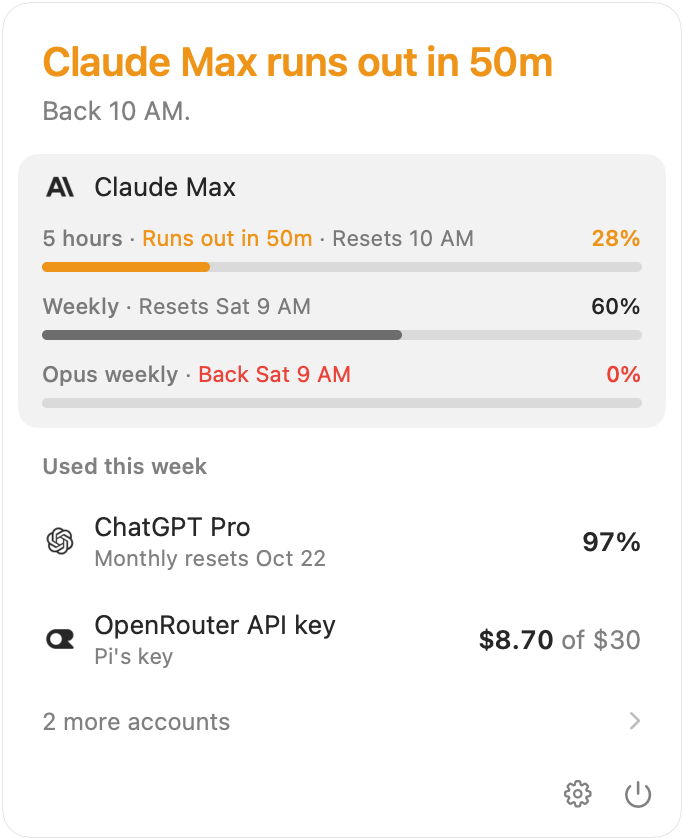
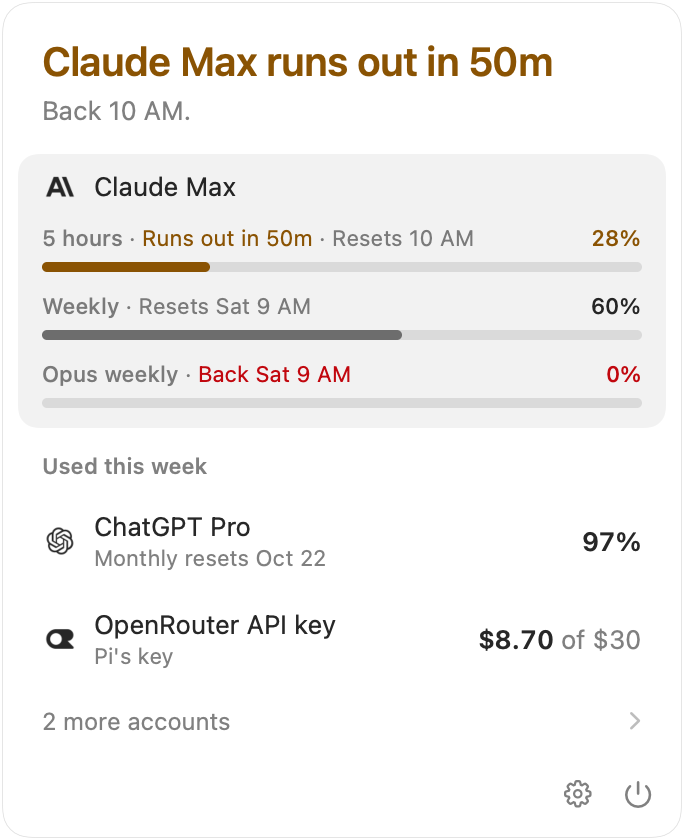
Raise color contrast, follow Reduce Motion, and keep dates Gregorian (#19)
Amber and red were one sRGB color each, for light and dark alike. In
light mode, amber text was 2.4:1 on white and about 1.7:1 on an open row
on the panel's glass, and red 3.9:1 and 2.9:1. Red was 2.9:1 on a dark
open row too. That text is as small as 11 points: a row's line, a
limit's times, the menu bar's figure. Standing.color is now Urgency, a
ShapeStyle that SwiftUI resolves from the color scheme and contrast. Each
color keeps its hue, with a variant for each appearance that reaches
4.5:1 on an open row on the glass (about #DDDDDD light, #3B3B3B dark),
and 7:1 with Increase Contrast on an opaque open row (#F2F2F2 and
NSColor wouldn't do: SwiftUI asks it only for light or dark, never for
more contrast.

Nothing read Reduce Motion. With it on, pages now fade instead of
sliding, a limit's bar is drawn at its level instead of springing to it,
and the footer's spinner holds still.

The menu bar's VoiceOver sentence was built in MenuBarItem, untested,
and left out of the key that decides when to redraw. A change only
VoiceOver would read, such as an API key's cost becoming partly
unpriced, waited until the figures changed too. It's now
Words.spokenItem, with a test, and part of that key.

Words formatted dates in the Mac's calendar, so a Mac on the Hebrew
calendar showed "Heshvan 7" for Oct 18. Dates are now formatted on the
Gregorian calendar in the Mac's time zone, and the Mac's calendar is kept
for day math.

The README's panel screenshots are redrawn.

diff --git a/macos/Turnscope/Style.swift b/macos/Turnscope/Style.swift
@@ -62,24 +62,65 @@ extension Font {
 extension Color {
     /// The color of something at work right now, such as an active session.
     /// It's the only color in a calm panel, since it needs nothing from you.
-    /// It's as bright as the amber beside it, and as muted.
+    /// It's as bright as the dark appearance's amber, and as muted.
     static let active = Color(red: 0.27, green: 0.72, blue: 0.43)
+
+    /// The color `0xRRGGBB`, in sRGB.
+    fileprivate init(hex: Int) {
+        self.init(red: Double(hex >> 16 & 0xFF) / 255, green: Double(hex >> 8 & 0xFF) / 255,
+                  blue: Double(hex & 0xFF) / 255)
+    }
 }
 
 extension Standing {
-    /// The color for something with this standing.
-    var color: Color {
-        switch self {
-        case .lasts: .primary
-        case .runningOut: Color(red: 0.93, green: 0.58, blue: 0.10)
-        case .usedUp: Color(red: 0.92, green: 0.26, blue: 0.22)
-        }
-    }
+    /// The color for something with this standing, in the appearance it's
+    /// drawn in.
+    var color: Urgency { Urgency(standing: self) }
 
     /// The color for text about something with this standing: amber or red
     /// when it needs attention, otherwise the gray `lasting`.
-    func ink(lasting: Color) -> Color {
-        self == .lasts ? lasting : color
+    func ink(lasting: Color) -> AnyShapeStyle {
+        self == .lasts ? AnyShapeStyle(lasting) : AnyShapeStyle(color)
+    }
+}
+
+/// A standing's color: the text's own color while it lasts, amber while it's
+/// running out, red once it's used up.
+///
+/// Amber and red are text as small as 11 points, so each reaches 4.5:1
+/// against the darkest background it's on: an open row on the panel's
+/// glass, about #DDDDDD in light mode and #3B3B3B in dark. With Increase
+/// Contrast, which also makes the glass opaque, each reaches 7:1 against an
+/// open row on the window's background, #F2F2F2 and #292929 as `--snapshot`
+/// draws them. Each keeps its hue, and as much of its chroma as sRGB holds.
+/// One amber and one red for every appearance were 1.7:1 and 2.9:1 on a
+/// light open row on the glass, and the red 2.9:1 on a dark one (October
+/// 2026).
+///
+/// | | Light | Dark | Light, Increase Contrast | Dark, Increase Contrast |
+/// |---|---|---|---|---|
+/// | Amber | #8A5303, 4.7:1 | #ED941A, 4.7:1 | #754501, 7.2:1 | #FCA231, 7.2:1 |
+/// | Red | #C1070E, 4.7:1 | #FE8375, 4.7:1 | #A5040A, 7.2:1 | #FF9C8F, 7.2:1 |
+///
+/// SwiftUI resolves it from the environment. A dynamic `NSColor` would never
+/// see Increase Contrast: SwiftUI asks it only for light or dark.
+struct Urgency: ShapeStyle {
+    var standing: Standing
+
+    func resolve(in environment: EnvironmentValues) -> Color {
+        let dark = environment.colorScheme == .dark
+        let more = environment.colorSchemeContrast == .increased
+        return switch (standing, dark, more) {
+        case (.lasts, _, _): .primary
+        case (.runningOut, false, false): Color(hex: 0x8A5303)
+        case (.runningOut, true, false): Color(hex: 0xED941A)
+        case (.runningOut, false, true): Color(hex: 0x754501)
+        case (.runningOut, true, true): Color(hex: 0xFCA231)
+        case (.usedUp, false, false): Color(hex: 0xC1070E)
+        case (.usedUp, true, false): Color(hex: 0xFE8375)
+        case (.usedUp, false, true): Color(hex: 0xA5040A)
+        case (.usedUp, true, true): Color(hex: 0xFF9C8F)
+        }
     }
 }
 

diff --git a/macos/Turnscope/Panel/AccountRow.swift b/macos/Turnscope/Panel/AccountRow.swift
@@ -44,7 +44,7 @@ struct AccountRow: View {
                     if !lines {
                         Text(words.status(account))
                             .font(.small)
-                            .foregroundStyle(deciding?.standing.ink(lasting: .secondary) ?? .secondary)
+                            .foregroundStyle((deciding?.standing ?? .lasts).ink(lasting: .secondary))
                             .lineLimit(1)
                             .transition(appears)
                     }
@@ -60,7 +60,7 @@ struct AccountRow: View {
                     // The text after the figure says what it is, so they
                     // read as one: "$10 of $30", "$84 this month".
                     let said = words.rowFigure(account)
-                    let left = Text(said.figure).foregroundStyle(deciding?.standing.ink(lasting: .primary) ?? .primary)
+                    let left = Text(said.figure).foregroundStyle((deciding?.standing ?? .lasts).ink(lasting: .primary))
                     let then = Text(said.then.map { " \($0)" } ?? "")
                         .font(.name).foregroundStyle(.secondary)
                     Text("\(left)\(then)")
@@ -147,7 +147,7 @@ private struct LimitLine: View {
         let ahead = words.ahead(limit).map { Text($0).foregroundStyle(limit.standing.color) }
         let usedUp = limit.standing == .usedUp
         let window = words.window(limit).map {
-            Text($0).foregroundStyle(usedUp ? limit.standing.color : .secondary)
+            Text($0).foregroundStyle(usedUp ? AnyShapeStyle(limit.standing.color) : AnyShapeStyle(.secondary))
         }
         let line = { (parts: [Text]) in
             parts.reduce(name) { said, part in Text("\(said)\(Text(" · ").foregroundStyle(.secondary))\(part)") }
@@ -176,9 +176,11 @@ private struct LimitLine: View {
 /// A limit's level: what's left now. It's gray while the limit lasts, amber
 /// while it's running out, and red when it's used up. It's full once the
 /// limit has reset since it was read, as serve says. This is the only bar
-/// the app draws.
+/// the app draws. It grows to its level as it appears, or is drawn there
+/// with Reduce Motion.
 struct Bar: View {
     var limit: LimitStatus
+    @Environment(\.accessibilityReduceMotion) private var reduceMotion
     @State private var grown = false
 
     var body: some View {
@@ -188,7 +190,7 @@ struct Bar: View {
                 Capsule().fill(.quaternary)
                 Capsule()
                     .fill(limit.standing == .lasts ? AnyShapeStyle(.secondary) : AnyShapeStyle(limit.standing.color))
-                    .frame(width: max(level > 0 ? 5 : 0, geometry.size.width * (grown ? level : 0)))
+                    .frame(width: max(level > 0 ? 5 : 0, geometry.size.width * (grown || reduceMotion ? level : 0)))
             }
         }
         .frame(height: 5)

diff --git a/macos/Turnscope/MenuBarItem.swift b/macos/Turnscope/MenuBarItem.swift
@@ -30,9 +30,10 @@ final class MenuBarItem {
     func image(_ accounts: [AccountStatus], words: Words, dark: Bool, outOfDate: Bool) -> NSImage? {
         let shown = Array(accounts.prefix(MenuBarItem.most))
         let figures = shown.map(words.figure)
+        let spoken = words.spokenItem(shown, outOfDate: outOfDate)
         let urgent = MenuBarItem.urgent(accounts)
-        let showing = Drawn(accounts: shown.map { [$0.title, $0.provider, "\($0.standing)"] },
-                            figures: figures, dark: urgent && dark, outOfDate: outOfDate)
+        let showing = Drawn(accounts: shown.map { [$0.provider, "\($0.standing)"] }, figures: figures,
+                            spoken: spoken, dark: urgent && dark, outOfDate: outOfDate)
         guard showing != drawn else { return nil }
         drawn = showing
         let renderer = ImageRenderer(content: ItemLabel(accounts: shown, figures: figures, template: !urgent)
@@ -41,10 +42,7 @@ final class MenuBarItem {
         renderer.scale = 2
         let image = renderer.nsImage ?? NSImage()
         image.isTemplate = !urgent
-        let said = shown.isEmpty
-            ? "Turnscope"
-            : shown.map { "\($0.title), \(words.spokenFigure($0))" }.joined(separator: "; ")
-        image.accessibilityDescription = outOfDate ? "\(said), not up to date" : said
+        image.accessibilityDescription = spoken
         return image
     }
 
@@ -62,12 +60,14 @@ final class MenuBarItem {
         UserDefaults.standard.string(forKey: Preference.menuShows) == MenuShows.one.rawValue ? 1 : .max
     }
 
-    /// What an image shows: the accounts' names (VoiceOver reads these),
-    /// logos and standings, their figures, the appearance when it's drawn in
-    /// color, and whether it's out of date.
+    /// What an image shows: the accounts' logos and standings, their
+    /// figures, what VoiceOver reads, which can change while the figures
+    /// don't, the appearance when it's drawn in color, and whether it's out
+    /// of date.
     private struct Drawn: Equatable {
         var accounts: [[String]]
         var figures: [String]
+        var spoken: String
         var dark: Bool
         var outOfDate: Bool
     }
@@ -101,7 +101,8 @@ final class MenuBarItem {
                         Text(figure)
                             .font(.system(size: NSFont.menuBarFont(ofSize: 0).pointSize, weight: .semibold)
                                 .monospacedDigit())
-                            .foregroundStyle(template ? Color.black : account.standing.color)
+                            .foregroundStyle(template ? AnyShapeStyle(Color.black)
+                                                      : AnyShapeStyle(account.standing.color))
                             .offset(y: -1)
                     }
                 }

diff --git a/macos/TurnscopeKit/Tests/TurnscopeKitTests/WordsTests.swift b/macos/TurnscopeKit/Tests/TurnscopeKitTests/WordsTests.swift
@@ -58,6 +58,16 @@ private let runsOut = Outlook.runsOut(likely: moment("2026-09-30T14:00:00Z", .so
     #expect(words.stretch(52 * 3600) == "2d 4h")
 }
 
+@Test func datesAreGregorianWhateverTheMacsCalendar() {
+    var hebrew = Calendar(identifier: .hebrew)
+    hebrew.timeZone = TimeZone(identifier: "America/Chicago")!
+    let words = Words(now: noon, calendar: hebrew)
+    #expect(words.at(at("2026-10-18T16:37:00Z"), .later) == "Oct 18")
+    #expect(words.ago(at("2026-09-22T12:00:00Z")) == "Sep 22")
+    // In the calendar's time zone, five hours behind UTC.
+    #expect(words.at(at("2026-10-03T19:50:00Z"), .thisWeek) == "Sat 2:50 PM")
+}
+
 @Test func amountsAreGroupedAndWhatIsLeftIsRoundedDown() {
     #expect(words.dollars(0) == "$0")
     #expect(words.dollars(9.956) == "$9.96")
@@ -192,6 +202,16 @@ private let runsOut = Outlook.runsOut(likely: moment("2026-09-30T14:00:00Z", .so
     // Early in the month there's no forecast, so none is mentioned.
     #expect(words.pace(Spend(monthUsd: 1, forecastUsd: nil, partial: false)) == nil)
     #expect(words.spent(unknown) == "Cost unknown")
+}
+
+@Test func voiceOverReadsTheMenuBarAsEachAccountThenItsFigure() {
+    let claude = account([limit(runsOut)])
+    let keys = account([], id: "openrouter:api", title: "OpenRouter API key", kind: .apiKey,
+                       spend: Spend(monthUsd: 84.2, forecastUsd: 210, partial: false))
+    #expect(words.spokenItem([claude, keys], outOfDate: false)
+        == "Claude Max, runs out in 2 hours; OpenRouter API key, $84 this month")
+    #expect(words.spokenItem([claude], outOfDate: true) == "Claude Max, runs out in 2 hours, not up to date")
+    #expect(words.spokenItem([], outOfDate: false) == "Turnscope")
 }
 
 @Test func aSessionThatUsedALimitSaysItsShareWhereItIsKnown() {

diff --git a/macos/TurnscopeKit/Sources/TurnscopeKit/Words+Limits.swift b/macos/TurnscopeKit/Sources/TurnscopeKit/Words+Limits.swift
@@ -298,7 +298,7 @@ extension Words {
     /// What the menu bar shows for an account, as VoiceOver reads it after
     /// its name: "20% left", "runs out in 1 hour 40 minutes", "back 5:40
     /// AM", "$84 this month".
-    public func spokenFigure(_ account: AccountStatus) -> String {
+    func spokenFigure(_ account: AccountStatus) -> String {
         guard let limit = account.decidingLimit else {
             if account.refused { return "sign in again" }
             return account.spend.map(spent) ?? "not read yet"
@@ -310,6 +310,17 @@ extension Words {
             return "runs out in \(spoken(likely.at.timeIntervalSince(now)))"
         case .lasts, .unknown: return "\(left(limit)) left"
         }
+    }
+
+    /// What VoiceOver reads for the menu bar item showing `accounts`: each
+    /// one's title and spoken figure, "Claude Max, runs out in 2 hours;
+    /// OpenRouter API key, $84 this month", or "Turnscope" with none. Then
+    /// "not up to date" while what it shows is `outOfDate`.
+    public func spokenItem(_ accounts: [AccountStatus], outOfDate: Bool) -> String {
+        let said = accounts.isEmpty
+            ? "Turnscope"
+            : accounts.map { "\($0.title), \(spokenFigure($0))" }.joined(separator: "; ")
+        return outOfDate ? "\(said), not up to date" : said
     }
 
     /// How long `seconds` is, as said aloud: "1 hour 40 minutes".

diff --git a/macos/TurnscopeKit/Sources/TurnscopeKit/Words.swift b/macos/TurnscopeKit/Sources/TurnscopeKit/Words.swift
@@ -228,13 +228,18 @@ public struct Words: Sendable {
     }
 
     /// `date` formatted with `pattern`, in `calendar`'s time zone. It's in
-    /// English, like all the words here, whatever the Mac's language.
-    /// Foundation caches the formatter for each pattern, so each is made once.
+    /// English on the Gregorian calendar, like all the words here, whatever
+    /// the Mac's language and calendar: on the Hebrew calendar, Oct 18 was
+    /// "Heshvan 7". Foundation caches the formatter for each pattern, so each
+    /// is made once.
     private func format(_ date: Date, _ pattern: Date.FormatString) -> String {
         date.formatted(Date.VerbatimFormatStyle(format: pattern, locale: Words.english,
-                                                timeZone: calendar.timeZone, calendar: calendar))
+                                                timeZone: calendar.timeZone, calendar: Words.gregorian))
     }
 
     /// English, like all the words here, whatever the Mac's language.
     private static let english = Locale(identifier: "en_US_POSIX")
+    /// The calendar dates are written in. Its time zone isn't used: `format`
+    /// gives `calendar`'s.
+    private static let gregorian = Calendar(identifier: .gregorian)
 }

diff --git a/macos/Turnscope/Panel/FirstPage.swift b/macos/Turnscope/Panel/FirstPage.swift
@@ -247,18 +247,21 @@ private struct Footer: View {
     }
 }
 
-/// A small arc that turns while something is in progress. SwiftUI draws it,
-/// so a snapshot shows it as the panel does.
+/// A small arc that turns while something is in progress, or holds still
+/// with Reduce Motion. SwiftUI draws it, so a snapshot shows it as the panel
+/// does.
 private struct Spinner: View {
+    @Environment(\.accessibilityReduceMotion) private var reduceMotion
     @State private var turning = false
 
     var body: some View {
+        let spinning = turning && !reduceMotion
         Circle()
             .trim(from: 0, to: 0.7)
             .stroke(.secondary, style: StrokeStyle(lineWidth: 1.5, lineCap: .round))
             .frame(width: 9, height: 9)
-            .rotationEffect(.degrees(turning ? 360 : 0))
-            .animation(.linear(duration: 0.9).repeatForever(autoreverses: false), value: turning)
+            .rotationEffect(.degrees(spinning ? 360 : 0))
+            .animation(spinning ? .linear(duration: 0.9).repeatForever(autoreverses: false) : nil, value: spinning)
             .onAppear { turning = true }
             .accessibilityHidden(true)
     }

diff --git a/macos/Turnscope/Panel/Window.swift b/macos/Turnscope/Panel/Window.swift
@@ -67,10 +67,11 @@ struct Glass: NSViewRepresentable {
     func updateNSView(_ view: NSVisualEffectView, context: Context) {}
 }
 
-/// The page shown, sliding in from the side as it changes. It's as tall as
-/// its page.
+/// The page shown, sliding in from the side as it changes, or fading in with
+/// Reduce Motion. It's as tall as its page.
 struct Panel: View {
     @Environment(Navigation.self) private var navigation
+    @Environment(\.accessibilityReduceMotion) private var reduceMotion
 
     var body: some View {
         ZStack(alignment: .top) {
@@ -85,6 +86,7 @@ struct Panel: View {
     }
 
     private var slide: AnyTransition {
+        guard !reduceMotion else { return .opacity }
         let forward = navigation.forward
         return .asymmetric(insertion: .move(edge: forward ? .trailing : .leading).combined(with: .opacity),
                            removal: .move(edge: forward ? .leading : .trailing).combined(with: .opacity))

diff --git a/docs/app.md b/docs/app.md
@@ -137,9 +137,13 @@ turnscope serve ──status, alerts──▶ Client ──events──▶ Store
   notifications. Views get one from `store.words(now:)`, which uses the agent
   names in the status. Fixed labels, such as headings, button titles and
   setting names, are written in the view that shows them. Everything is in
-  English, and times are on a 12-hour clock, whatever the Mac's language.
+  English, dates are on the Gregorian calendar, and times are on a 12-hour
+  clock, whatever the Mac's language and calendar.
 - **`Standing`** turns an outlook into lasts, running out or used up.
-  `Style.swift` maps it to a color: gray, amber or red.
+  `Style.swift` maps it to a color: gray, amber or red. Amber and red have a
+  variant for light, dark and Increase Contrast, each at 4.5:1 or more
+  against the panel (7:1 with Increase Contrast). `Urgency` has the values
+  and the ratios.
 
 The app's state lives on the main thread: `Client`, `Store`, `Navigation`
 and `AppDelegate` are `@MainActor`. Only the socket is read on a thread of
@@ -165,8 +169,9 @@ icon. While every account it shows lasts, it's a template image in the menu
 bar's own color. Once one needs attention, it's drawn in color. While
 `serve` is away (`Store.failure`), it's dimmed, since it shows the last
 status. With Settings → General → Show set to Most urgent, it shows only
-the most urgent account. VoiceOver reads each account's title and
-`Words.spokenFigure`, then "not up to date" while it's dimmed.
+the most urgent account. VoiceOver reads `Words.spokenItem`: each
+account's title and what its figure says, then "not up to date" while it's
+dimmed.
 
 The item is one image drawn by SwiftUI, redrawn only when what it shows
 changes: a new status, `serve` going away or coming back, the menu bar
@@ -207,6 +212,10 @@ bar, the note, and the sessions that used the deciding limit most, from
 opens, so a row opens with them in one motion, and again for the open
 account with each status. Hovering shows a Hide button, and right-clicking
 offers Hide too.
+
+With Reduce Motion on, pages fade instead of sliding, a limit's bar is
+drawn at its level instead of growing to it, and the footer's spinner holds
+still.
 
 The window is a borderless, transparent panel hung under the item, as tall
 as the screen allows. The SwiftUI view draws its own glass, edge and shadow
@@ -444,7 +453,7 @@ First decide who owns it.
   figures and times, `Words+Limits.swift` limits, rows, the headline, the
   menu bar, the panel's folds and agents' connections, and
   `Words+Notes.swift` notifications. Check what VoiceOver
-  says too: `spokenFigure` for the menu bar, and `accessibilityLabel` in the
+  says too: `spokenItem` for the menu bar, and `accessibilityLabel` in the
   views.
 - **A fixed label**, such as a heading, a button or a setting's name: change
   it in the view that shows it.

diff --git a/CHANGELOG.md b/CHANGELOG.md
@@ -107,6 +107,17 @@
 - **The app's engine** answers a line that isn't UTF-8 with a "not JSON"
   error instead of closing the connection, and keeps running when it runs
   out of file descriptors for a new connection.
+- **Colors:** amber and red are darker in light mode, and red is lighter in
+  dark mode, so text in them reads at 4.5:1 or more against the panel.
+  Amber text in light mode was 2.4:1 on white. With Increase Contrast they
+  reach 7:1.
+- **Reduce Motion:** with it on, pages fade instead of sliding, a limit's
+  bar doesn't grow into place, and the footer's spinner holds still.
+- **VoiceOver** reads the menu bar item as it is now. A change only it
+  would read, such as an API key's cost becoming partly unpriced, used to
+  wait until the figures shown changed too.
+- **Dates** are on the Gregorian calendar on a Mac set to another one, such
+  as the Hebrew or Islamic calendar: "Oct 18", not "Heshvan 7".
 - Your agents' history is read again once after updating, so these fixes
   apply to what was read before.
 
